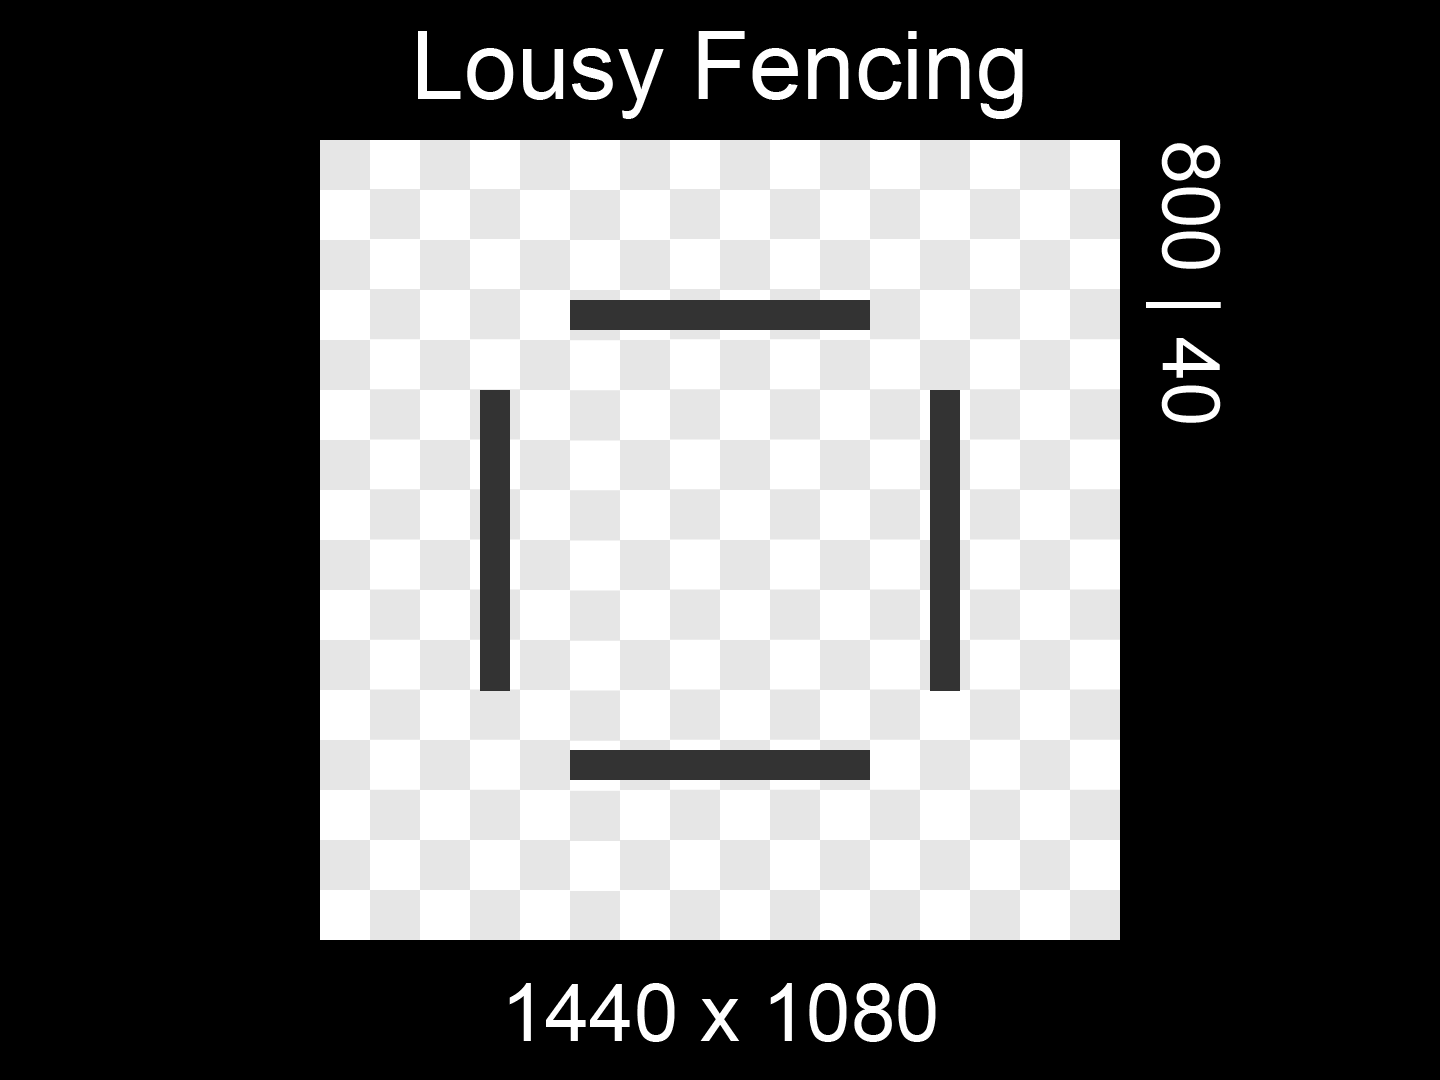
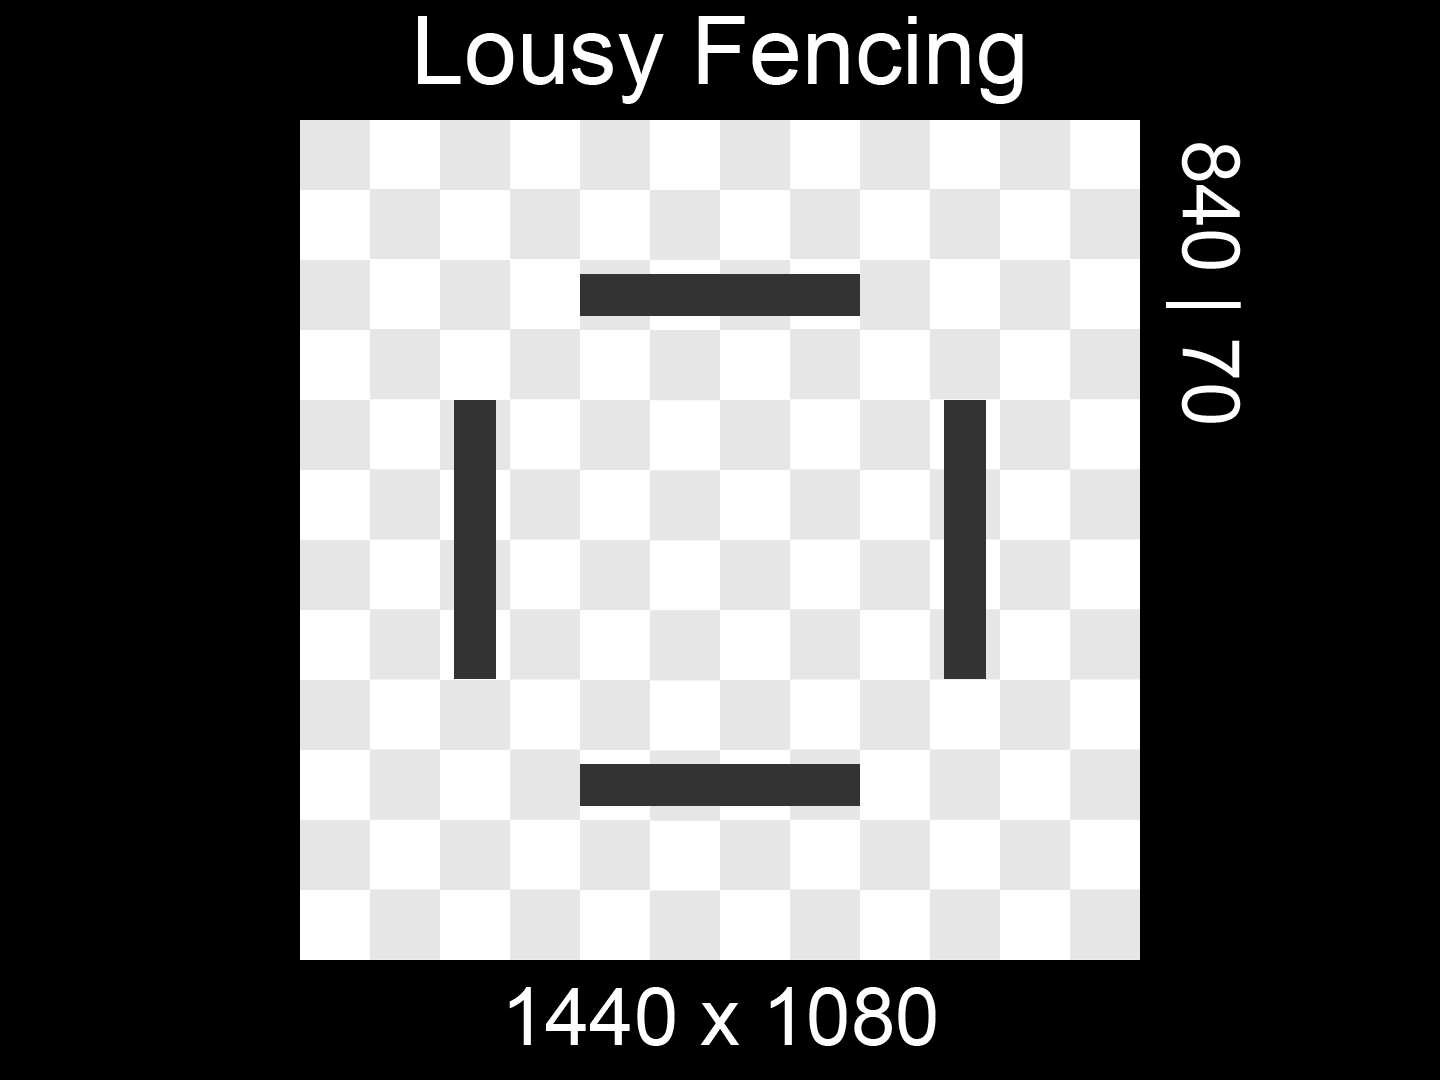
idk

Changed region(s): [[0.1875, 0.0, 0.875, 0.9778]]

diff --git a/src/GUI/GamePlayGUI.java b/src/GUI/GamePlayGUI.java
@@ -74,8 +74,9 @@ public class GamePlayGUI extends JFrame {
 
         //WARNING: No Edit Zone -- Start
 
-        Engine core = new Engine();
-        core.setMap(demoMap);
+        GameInfo.core = new Engine();
+        GameInfo.core.setMap(demoMap);
+
 
         // Add Event Listener
         addKeyListener(new KeyListener() {
@@ -85,71 +86,69 @@ public class GamePlayGUI extends JFrame {
             @Override
             public void keyPressed(KeyEvent e) {
                 int keyCode = e.getKeyCode();
-                if (core.getNowPlaying() == 1 && !GameInfo.isGameEnd) {
+                if (!GameInfo.isGameEnd && GameInfo.core.getNowPlaying() == 1) {
 
                     switch (keyCode){
                         case KeyEvent.VK_UP -> {
-                            core.getPlayer1().goUp();
-                            core.getPlayer1().decreaseTurns(1);
+                            GameInfo.core.getPlayer1().goUp();
+                            GameInfo.core.getPlayer1().decreaseTurns(1);
                         }
                         case KeyEvent.VK_DOWN -> {
-                            core.getPlayer1().goDown();
-                            core.getPlayer1().decreaseTurns(1);
+                            GameInfo.core.getPlayer1().goDown();
+                            GameInfo.core.getPlayer1().decreaseTurns(1);
                         }
                         case KeyEvent.VK_LEFT -> {
-                            core.getPlayer1().goLeft();
-                            core.getPlayer1().decreaseTurns(1);
+                            GameInfo.core.getPlayer1().goLeft();
+                            GameInfo.core.getPlayer1().decreaseTurns(1);
                         }
                         case KeyEvent.VK_RIGHT -> {
-                            core.getPlayer1().goRight();
-                            core.getPlayer1().decreaseTurns(1);
+                            GameInfo.core.getPlayer1().goRight();
+                            GameInfo.core.getPlayer1().decreaseTurns(1);
                         }
                         default -> {}
                     }
 
-                    core.getPlayer1().updateLocation();
-                    core.nextNowPlaying();
+                    GameInfo.core.getPlayer1().updateLocation();
 
 
-                } else if (core.getNowPlaying() == 2 && !GameInfo.isGameEnd) {
+
+                } else if (!GameInfo.isGameEnd && GameInfo.core.getNowPlaying() == 2) {
 
                     switch (keyCode){
                         case KeyEvent.VK_W -> {
-                            core.getPlayer2().goUp();
-                            core.getPlayer2().decreaseTurns(1);
+                            GameInfo.core.getPlayer2().goUp();
+                            GameInfo.core.getPlayer2().decreaseTurns(1);
                         }
                         case KeyEvent.VK_S -> {
-                            core.getPlayer2().goDown();
-                            core.getPlayer2().decreaseTurns(1);
+                            GameInfo.core.getPlayer2().goDown();
+                            GameInfo.core.getPlayer2().decreaseTurns(1);
                         }
                         case KeyEvent.VK_A -> {
-                            core.getPlayer2().goLeft();
-                            core.getPlayer2().decreaseTurns(1);
+                            GameInfo.core.getPlayer2().goLeft();
+                            GameInfo.core.getPlayer2().decreaseTurns(1);
                         }
                         case KeyEvent.VK_D -> {
-                            core.getPlayer2().goRight();
-                            core.getPlayer2().decreaseTurns(1);
+                            GameInfo.core.getPlayer2().goRight();
+                            GameInfo.core.getPlayer2().decreaseTurns(1);
                         }
                         default -> {}
                     }
-                    core.getPlayer2().updateLocation();
-                    core.nextNowPlaying();
+                    GameInfo.core.getPlayer2().updateLocation();
 
                 } else {
 
                 }
+
+                GameInfo.core.nextNowPlaying();
 
 
                 // Developer logic
 
 
                 if (degbugMode){
-                    LOGGER.info("Sekarang giliran : " + core.getNowPlaying() + ", Turns [ " + core.getPlayer1().getTurns() + " , " + core.getPlayer2().getTurns() + " ]");
-                    if (core.getNowPlaying()== 1){
-                        LOGGER.info(core.getPlayer1().character.getLocation().toString());
-                    } else if (core.getNowPlaying() == 2){
-                        LOGGER.info(core.getPlayer2().character.getLocation().toString());
-                    }
+                    LOGGER.info("Sekarang giliran : " + GameInfo.core.getNowPlaying() + ", Turns [ " + GameInfo.core.getPlayer1().getTurns() + " , " + GameInfo.core.getPlayer2().getTurns() + " ]");
+                    LOGGER.info("Player 1 : " + GameInfo.core.getPlayer1().getCoordinateX() + ", " + GameInfo.core.getPlayer1().getCoordinateY() + "\n" +
+                                     "Player 2 : " + GameInfo.core.getPlayer2().getCoordinateX() + ", " + GameInfo.core.getPlayer2().getCoordinateY());
                 }
 
             }

diff --git a/src/models/Map1.java b/src/models/Map1.java
@@ -10,38 +10,34 @@ public class Map1 extends Map{
     }
 
     protected final void initializeObstacle(){
+        Obstacle x = new Obstacle(getTilesRelativeCoorX(4), getTilesRelativeCoorY(2));
+        System.out.println(x.getCoordinateX() + " " + x.getCoordinateY() );
+
         if (FrameInfo.getUserScreenSetting() > 1) {
             // Top
-            addObstacles(new Obstacle(getTilesRelativeCoorX(5), getTilesRelativeCoorY(3)));
-            addObstacles(new Obstacle(getTilesRelativeCoorX(6), getTilesRelativeCoorY(3)));
-            addObstacles(new Obstacle(getTilesRelativeCoorX(7), getTilesRelativeCoorY(3)));
-            addObstacles(new Obstacle(getTilesRelativeCoorX(8), getTilesRelativeCoorY(3)));
-            addObstacles(new Obstacle(getTilesRelativeCoorX(9), getTilesRelativeCoorY(3)));
-            addObstacles(new Obstacle(getTilesRelativeCoorX(10), getTilesRelativeCoorY(3)));
+            addObstacles(new Obstacle(getTilesRelativeCoorX(4), getTilesRelativeCoorY(2)));
+            addObstacles(new Obstacle(getTilesRelativeCoorX(5), getTilesRelativeCoorY(2)));
+            addObstacles(new Obstacle(getTilesRelativeCoorX(6), getTilesRelativeCoorY(2)));
+            addObstacles(new Obstacle(getTilesRelativeCoorX(7), getTilesRelativeCoorY(2)));
+
 
             // Left
-            addObstacles(new Obstacle(getTilesRelativeCoorX(3), getTilesRelativeCoorY(5)));
-            addObstacles(new Obstacle(getTilesRelativeCoorX(3), getTilesRelativeCoorY(6)));
-            addObstacles(new Obstacle(getTilesRelativeCoorX(3), getTilesRelativeCoorY(7)));
-            addObstacles(new Obstacle(getTilesRelativeCoorX(3), getTilesRelativeCoorY(8)));
-            addObstacles(new Obstacle(getTilesRelativeCoorX(3), getTilesRelativeCoorY(9)));
-            addObstacles(new Obstacle(getTilesRelativeCoorX(3), getTilesRelativeCoorY(10)));
+            addObstacles(new Obstacle(getTilesRelativeCoorX(2), getTilesRelativeCoorY(4)));
+            addObstacles(new Obstacle(getTilesRelativeCoorX(2), getTilesRelativeCoorY(5)));
+            addObstacles(new Obstacle(getTilesRelativeCoorX(2), getTilesRelativeCoorY(6)));
+            addObstacles(new Obstacle(getTilesRelativeCoorX(2), getTilesRelativeCoorY(7)));
 
             // Right
-            addObstacles(new Obstacle(getTilesRelativeCoorX(12), getTilesRelativeCoorY(5)));
-            addObstacles(new Obstacle(getTilesRelativeCoorX(12), getTilesRelativeCoorY(6)));
-            addObstacles(new Obstacle(getTilesRelativeCoorX(12), getTilesRelativeCoorY(7)));
-            addObstacles(new Obstacle(getTilesRelativeCoorX(12), getTilesRelativeCoorY(8)));
-            addObstacles(new Obstacle(getTilesRelativeCoorX(12), getTilesRelativeCoorY(9)));
-            addObstacles(new Obstacle(getTilesRelativeCoorX(12), getTilesRelativeCoorY(10)));
+            addObstacles(new Obstacle(getTilesRelativeCoorX(9), getTilesRelativeCoorY(4)));
+            addObstacles(new Obstacle(getTilesRelativeCoorX(9), getTilesRelativeCoorY(5)));
+            addObstacles(new Obstacle(getTilesRelativeCoorX(9), getTilesRelativeCoorY(6)));
+            addObstacles(new Obstacle(getTilesRelativeCoorX(9), getTilesRelativeCoorY(7)));
 
             // Bottom
-            addObstacles(new Obstacle(getTilesRelativeCoorX(5), getTilesRelativeCoorY(12)));
-            addObstacles(new Obstacle(getTilesRelativeCoorX(6), getTilesRelativeCoorY(12)));
-            addObstacles(new Obstacle(getTilesRelativeCoorX(7), getTilesRelativeCoorY(12)));
-            addObstacles(new Obstacle(getTilesRelativeCoorX(8), getTilesRelativeCoorY(12)));
-            addObstacles(new Obstacle(getTilesRelativeCoorX(9), getTilesRelativeCoorY(12)));
-            addObstacles(new Obstacle(getTilesRelativeCoorX(10), getTilesRelativeCoorY(12)));
+            addObstacles(new Obstacle(getTilesRelativeCoorX(4), getTilesRelativeCoorY(9)));
+            addObstacles(new Obstacle(getTilesRelativeCoorX(5), getTilesRelativeCoorY(9)));
+            addObstacles(new Obstacle(getTilesRelativeCoorX(6), getTilesRelativeCoorY(9)));
+            addObstacles(new Obstacle(getTilesRelativeCoorX(7), getTilesRelativeCoorY(9)));
         }
     }
 }

diff --git a/src/models/PlayerPhysic.java b/src/models/PlayerPhysic.java
@@ -1,5 +1,6 @@
 package models;
 import information.FrameInfo;
+import information.GameInfo;
 
 public class PlayerPhysic extends  Player implements IMoveable{
 
@@ -12,24 +13,35 @@ public class PlayerPhysic extends  Player implements IMoveable{
     @Override
     public void goUp() {
         //TODO: naik
-        decrementY(FrameInfo.tileSize);
+        if (!GameInfo.core.map.isObstacle(getCoordinateX(), getCoordinateY() - FrameInfo.tileSize)){
+            decrementY(FrameInfo.tileSize);
+        }
     }
 
     @Override
     public void goDown() {
         //TODO: turun
-        incrementY(FrameInfo.tileSize);
+        if (!GameInfo.core.map.isObstacle(getCoordinateX(), getCoordinateY() + FrameInfo.tileSize)){
+            incrementY(FrameInfo.tileSize);
+        }
+
     }
 
     @Override
     public void goLeft() {
         //TODO: kiri
-        decrementtX(FrameInfo.tileSize);
+        if (!GameInfo.core.map.isObstacle(getCoordinateX() - FrameInfo.tileSize, getCoordinateY())){
+            decrementtX(FrameInfo.tileSize);
+        }
+
     }
 
     @Override
     public void goRight() {
         //TODO: kanan
-        incrementX(FrameInfo.tileSize);
+        if (!GameInfo.core.map.isObstacle(getCoordinateX() + FrameInfo.tileSize, getCoordinateY())){
+            incrementX(FrameInfo.tileSize);
+        }
+
     }
 }

diff --git a/src/models/Map.java b/src/models/Map.java
@@ -46,6 +46,15 @@ public abstract class Map {
     public void addObstacles(Obstacle obstacle){
         obstacles.add(obstacle);
     }
+    public boolean isObstacle(int x, int y){
+        for (Obstacle obstacle : obstacles) {
+            if(obstacle.isOnObstacle(x,y)){
+                return true;
+            }
+        }
+        return false;
+    }
+
     protected abstract void initializeObstacle();
 
 
@@ -56,6 +65,15 @@ public abstract class Map {
 
     public void addSoups(Soup soup){
         soups.add(soup);
+    }
+
+    public boolean isSoup(int x, int y){
+        for (Soup soup : soups) {
+            if(soup.isOnSoup(x,y)){
+                return true;
+            }
+        }
+        return false;
     }
 
 
@@ -75,9 +93,6 @@ public abstract class Map {
         initializeObstacle();
     }
 
-    // next player
-
-
 
 
     // Tiles Relative Coordinate
@@ -86,7 +101,7 @@ public abstract class Map {
     }
 
     public int getTilesRelativeCoorY(int tileIndex){
-        return tileIndex * FrameInfo.tileSize + FrameInfo.arenaXstart;
+        return tileIndex * FrameInfo.tileSize + FrameInfo.arenaYstart;
     }
 
 

diff --git a/src/models/Soup.java b/src/models/Soup.java
@@ -1,5 +1,7 @@
 package models;
 
+import information.FrameInfo;
+
 public class Soup extends Coordinate{
     private String name;
     private int effect;
@@ -10,7 +12,7 @@ public class Soup extends Coordinate{
         setEffect(effect);
     }
 
-    public boolean isSoup(int x, int y) {
+    public boolean isOnSoup(int x, int y) {
         return super.getCoordinateX() == x && super.getCoordinateY() == y;
     }
 

diff --git a/src/models/Obstacle.java b/src/models/Obstacle.java
@@ -1,8 +1,10 @@
 package models;
 
+import information.FrameInfo;
+
 public class Obstacle extends Coordinate{
 
-    public boolean isObstacle(int x, int y) {
+    public boolean isOnObstacle(int x, int y) {
         return super.getCoordinateX() == x && super.getCoordinateY() == y;
     }
 

diff --git a/src/information/GameInfo.java b/src/information/GameInfo.java
@@ -1,6 +1,10 @@
 package information;
 
+import core.Engine;
+
 public class GameInfo {
     public static boolean isGameEnd = false;
     public static int moves = 0;
+
+    public static Engine core;
 }
